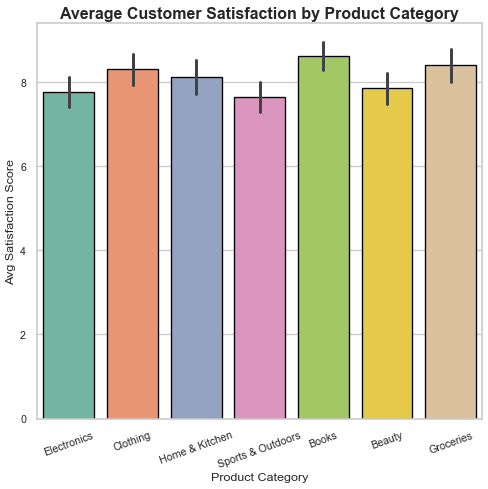
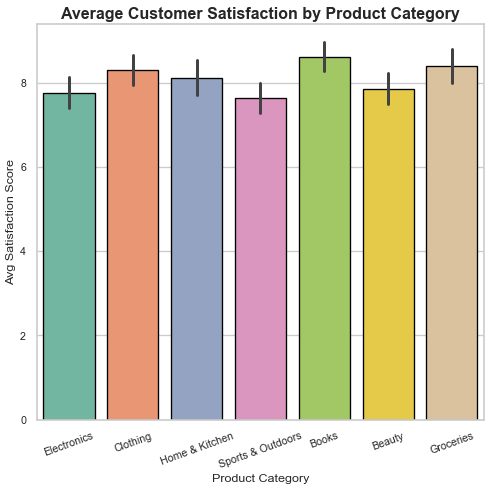
size must be 512x512

diff --git a/chart.py b/chart.py
@@ -23,17 +23,27 @@ cats = []
 for cat in categories:
     scores.extend(np.clip(np.random.normal(means[cat], stddev, n_scores), 6.0, 9.0))
     cats.extend([cat]*n_scores)
+
 data = pd.DataFrame({'Category': cats, 'Satisfaction': scores})
 
 sns.set_style('whitegrid')
 sns.set_context('talk')
-plt.figure(figsize=(8,8))  # 512x512px at dpi=64
 
-bar = sns.barplot(x='Category', y='Satisfaction', data=data, palette='Set2', ci='sd', edgecolor='black')
+# Create figure with exact size: 8x8 inches at 64 dpi = 512x512 px
+plt.figure(figsize=(8,8), dpi=64)
+
+bar = sns.barplot(
+    x='Category', y='Satisfaction', data=data,
+    palette='Set2', ci='sd', edgecolor='black'
+)
+
 bar.set_title('Average Customer Satisfaction by Product Category', fontsize=18, fontweight='bold')
 bar.set_xlabel('Product Category', fontsize=14)
 bar.set_ylabel('Avg Satisfaction Score', fontsize=14)
 bar.tick_params(labelsize=12)
+
 plt.xticks(rotation=20)
 plt.tight_layout()
+
+# Save AFTER creating the plot
 plt.savefig('chart.png', dpi=64, bbox_inches='tight')
